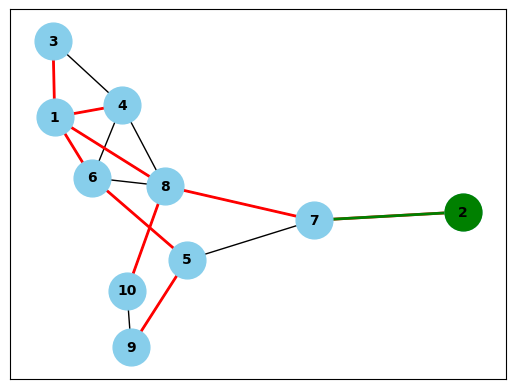
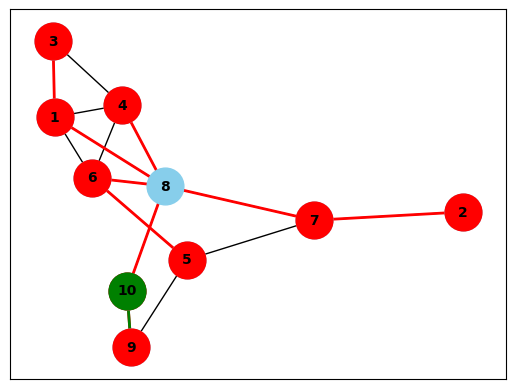
Adicionado visualização de árvore

diff --git a/buscaLarg.py b/buscaLarg.py
@@ -20,7 +20,6 @@ from Vertice import Vertice
 from funGrafo import *
 from lerGrafo import *
 from collections import deque
-
 import networkx as nx
 import matplotlib.pyplot as plt
 
@@ -73,10 +72,32 @@ def gerar_imagem_do_grafo(matriz_adjacencia, caminho_imagem, no_atual = None,no_
     plt.close()
     return arestas
 
-def colocar_arv (vertice):
-    print("O nó será colocado na árvore")
+def colocar_arv (arvore, pai, filho, cor = "k"):
+    if not arvore.has_node(filho):
+        arvore.add_node(filho)
+    if arvore.has_node(pai):
+        arvore.add_edge(pai, filho, color=cor)
+    else:
+        print("Erro: O nó pai não existe na árvore.")
+        arvore.add_node(filho)
+        print("Portanto o nó foi adicionado como filho")
 
-def buscar_em_largura(vertice_inicial=None):
+
+    # Converter para um grafo PyGraphviz
+    G = nx.nx_agraph.to_agraph(arvore)
+
+    # Configuração de tamanho para nós e arestas
+    G.graph_attr.update(rankdir='TB')
+    G.node_attr.update({'style': 'filled', 'shape': 'circle', 'width': '0.1', 'height': '0.1'})  # Ajuste de tamanho dos nós
+    G.edge_attr.update({'penwidth': '3.0'})  # Ajuste de largura das arestas
+
+    # Layout e geração da imagem com Graphviz
+    G.layout(prog='dot')
+        
+    G.draw('arvore.png')
+    return arvore
+
+def buscar_em_largura(vertice_inicial=None,arvore = None):
     global vertices_enfileirados
     vertices = list()
     arestas_visitadas = list()
@@ -99,9 +120,10 @@ def buscar_em_largura(vertice_inicial=None):
                     v.adjacencia.append(n[0])
 
     # Seja v o primeiro elemento
-    primeiro_vertice = 1
+    primeiro_vertice = 8
     fila = deque([vertices[primeiro_vertice - 1]])
     vertices[primeiro_vertice - 1].marcado = True
+    colocar_arv(arvore,None,primeiro_vertice)
 
     while fila:
         vertice_atual = fila.popleft()
@@ -118,6 +140,11 @@ def buscar_em_largura(vertice_inicial=None):
                                       arestas_visitadas, aresta_escolhida)  # Gera imagem
                 window["-TEXT-"].update(f'Vertices: {vertices_enfileirados}')
                 window['-IMAGE-'].update(f'{caminho_imagem}')
+
+                print ("Arvore pai ",vertice_atual.numero,"Filho ",vertices[vizinho - 1].numero)
+                colocar_arv(arvore,vertice_atual.numero,vertices[vizinho - 1].numero)
+
+                window["-IMAGE2-"].update(filename="arvore.png")
                 window.refresh()
                 time.sleep(3)
 
@@ -128,12 +155,6 @@ def buscar_em_largura(vertice_inicial=None):
 
         print(arestas_visitadas)
 
-    gerar_imagem_do_grafo(matriz_adjacencia_exemplo, caminho_imagem_saida, vertice_atual.numero, None,
-                                      arestas_visitadas, aresta_escolhida)  # Gera imagem
-    window["-TEXT-"].update(f'Vertices: {vertices_enfileirados}')
-    window['-IMAGE-'].update(f'{caminho_imagem}')
-    window.refresh()
-    #time.sleep(1)
 
 
 # Exemplo: gerar uma imagem do grafo
@@ -161,11 +182,13 @@ for vertice, grau in lista.items():
 caminho_imagem_saida = caminho_imagem = "grafo/grafo.png"
 sg.theme('Reddit')
 
+arvore = nx.Graph()
 
 # Exemplo: criar uma fila com tamanho variável de 8
 tamanho = 8
 vertices_enfileirados = list()
-layout = [[sg.Image(key="-IMAGE-")],
+layout = [[sg.Column([[sg.Image(key="-IMAGE-")]]),
+          sg.Column([[sg.Image(key="-IMAGE2-")]])],
           [sg.Push(), sg.Button('Busca'), sg.Push()],
           [sg.Text(f'Vertices: {vertices_enfileirados}', key="-TEXT-")]
           ]
@@ -174,6 +197,7 @@ window = sg.Window('Busca em Largura', layout, resizable=True, finalize=True)
 
 while True:
     window["-IMAGE-"].update(filename=caminho_imagem)
+    window["-IMAGE2-"].update(filename="grafo/arvore.png")
     event, values = window.read()
 
     if event == sg.WIN_CLOSED or event == 'Exit':
@@ -184,7 +208,7 @@ while True:
         window.Refresh()
 
     if event == 'Busca':
-        buscar_em_largura()
+        buscar_em_largura(None,arvore)
         window.Refresh()
         
         """

diff --git a/faz_arvore.py b/faz_arvore.py
@@ -63,7 +63,7 @@ def arvore_test():
             [sg.Text('Cor:'), sg.InputText(key='cor')],
             [sg.Button('OK')]]
 
-    window = sg.Window('Busca em Largura', layout, resizable=True, finalize=True)
+    window = sg.Window('Faz arv', layout, resizable=True, finalize=True)
 
     while True:
         event, values = window.read()
